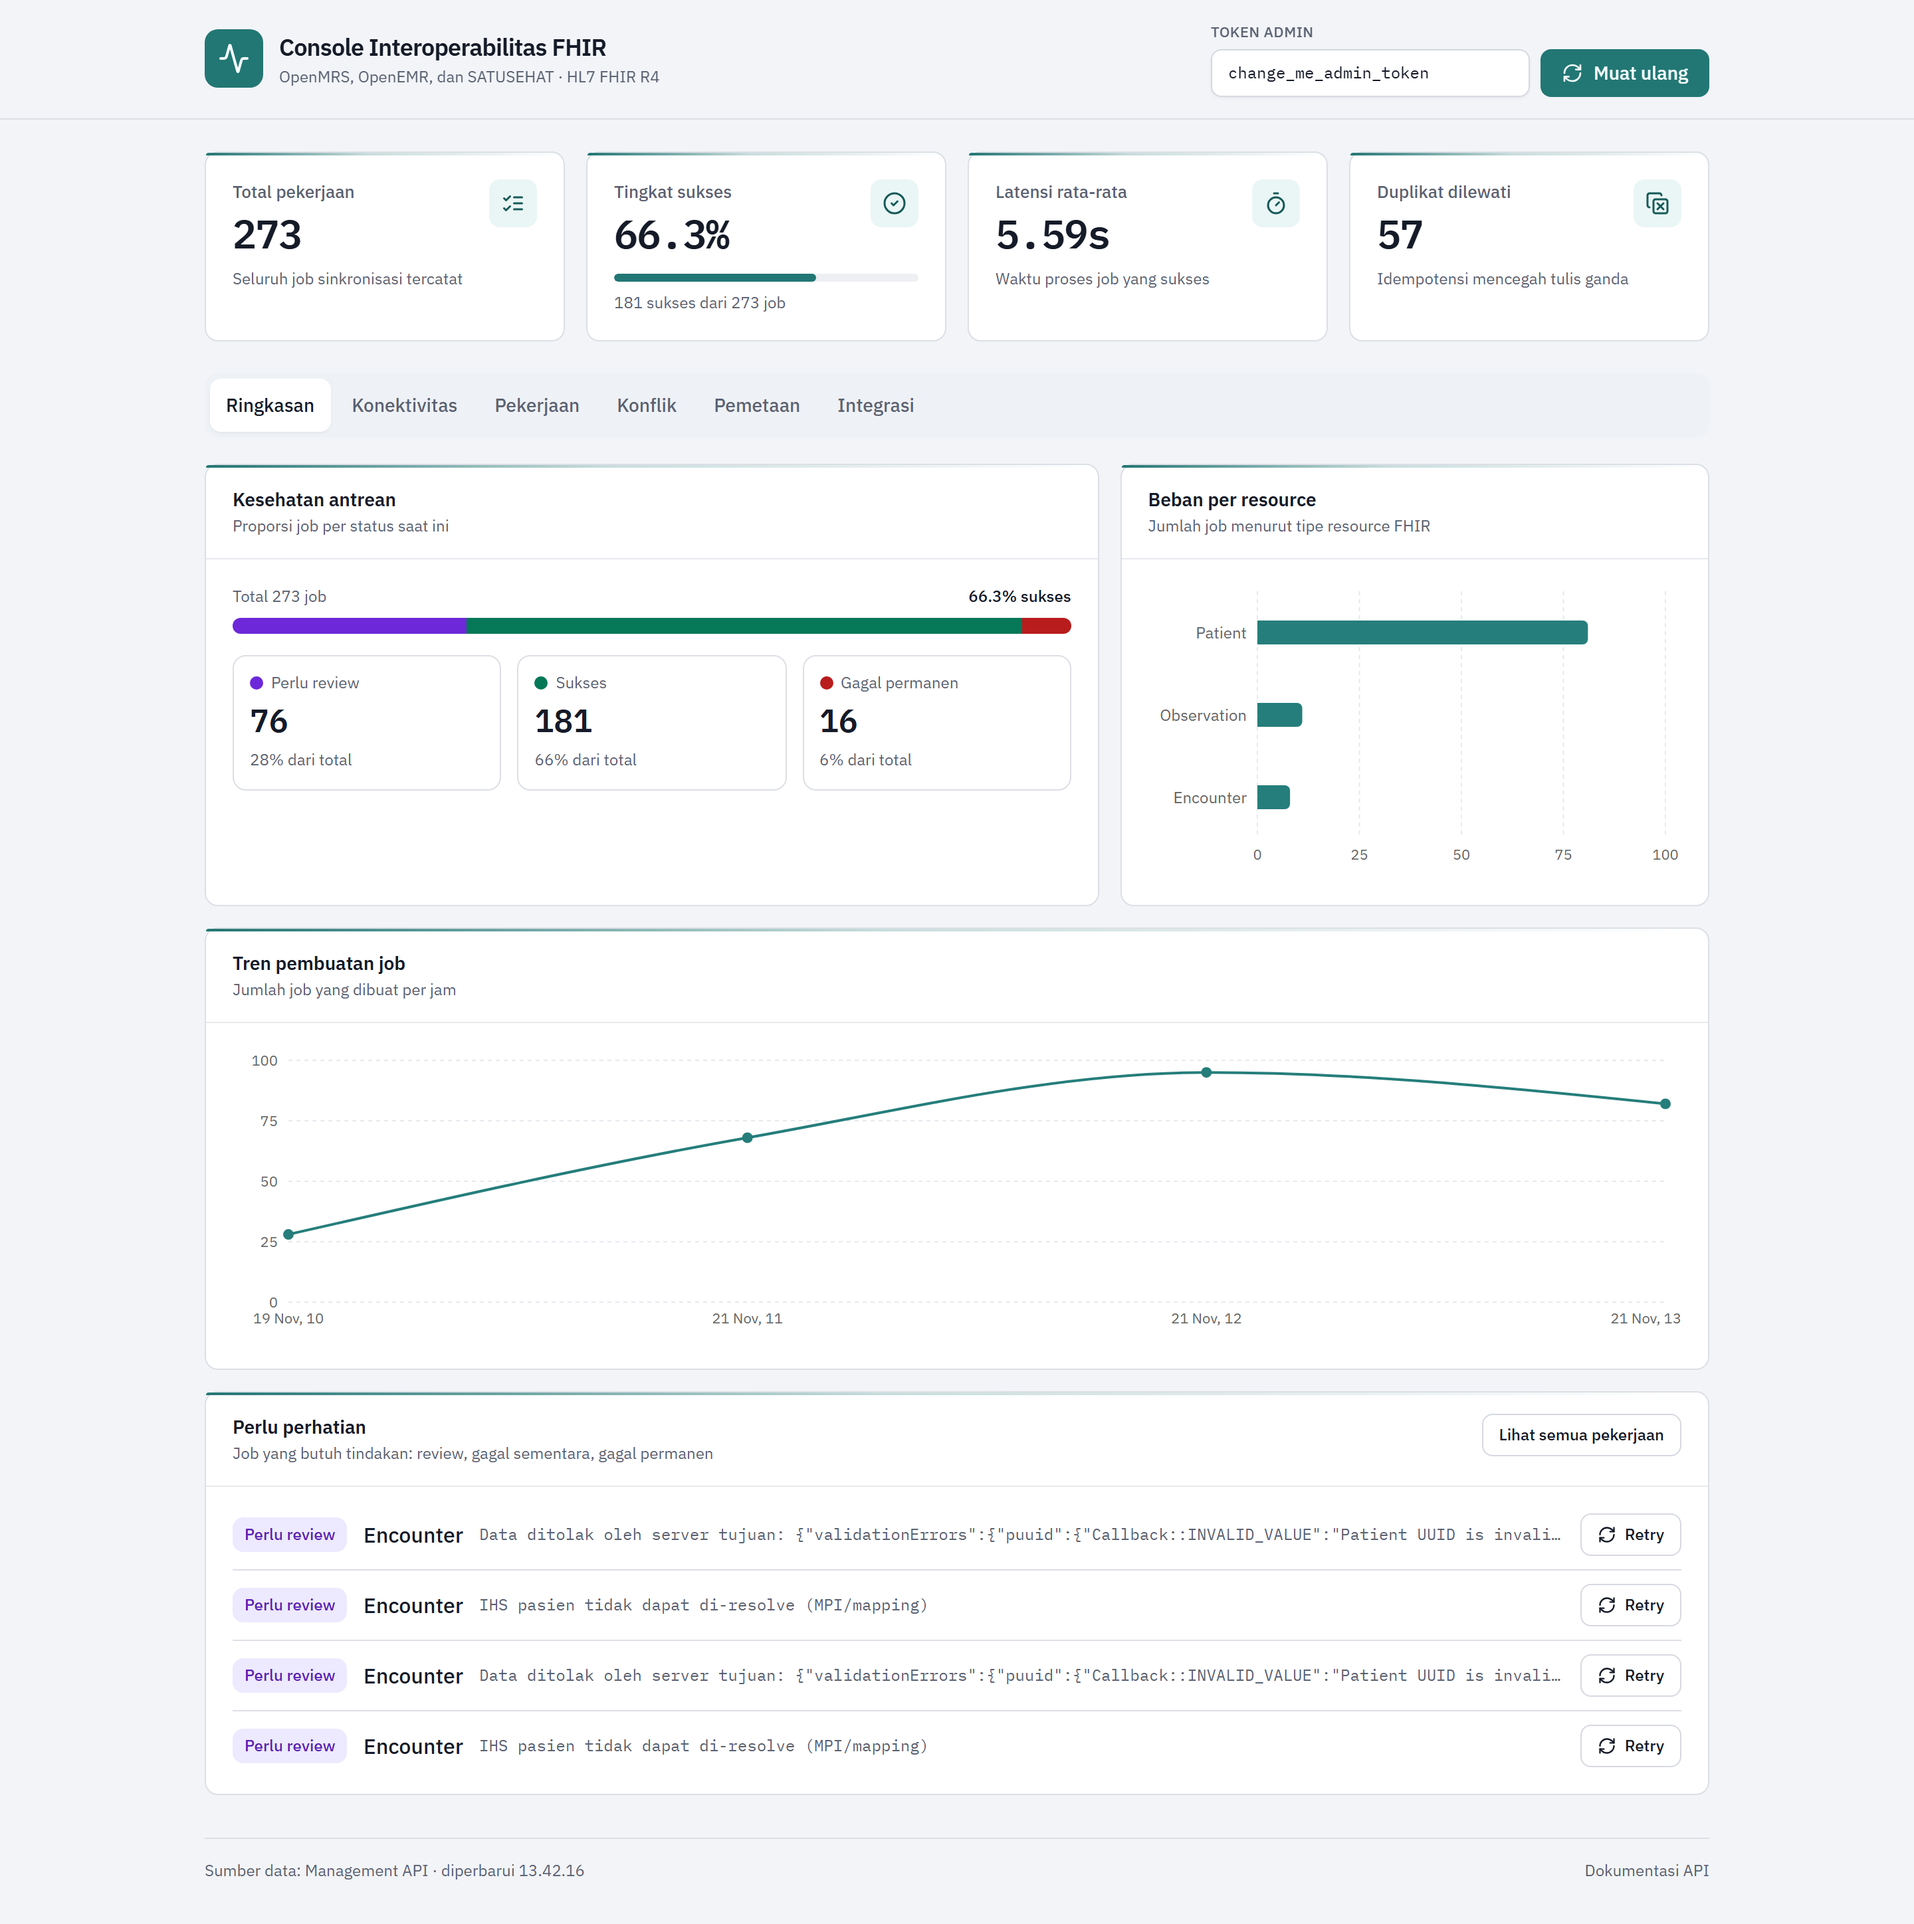
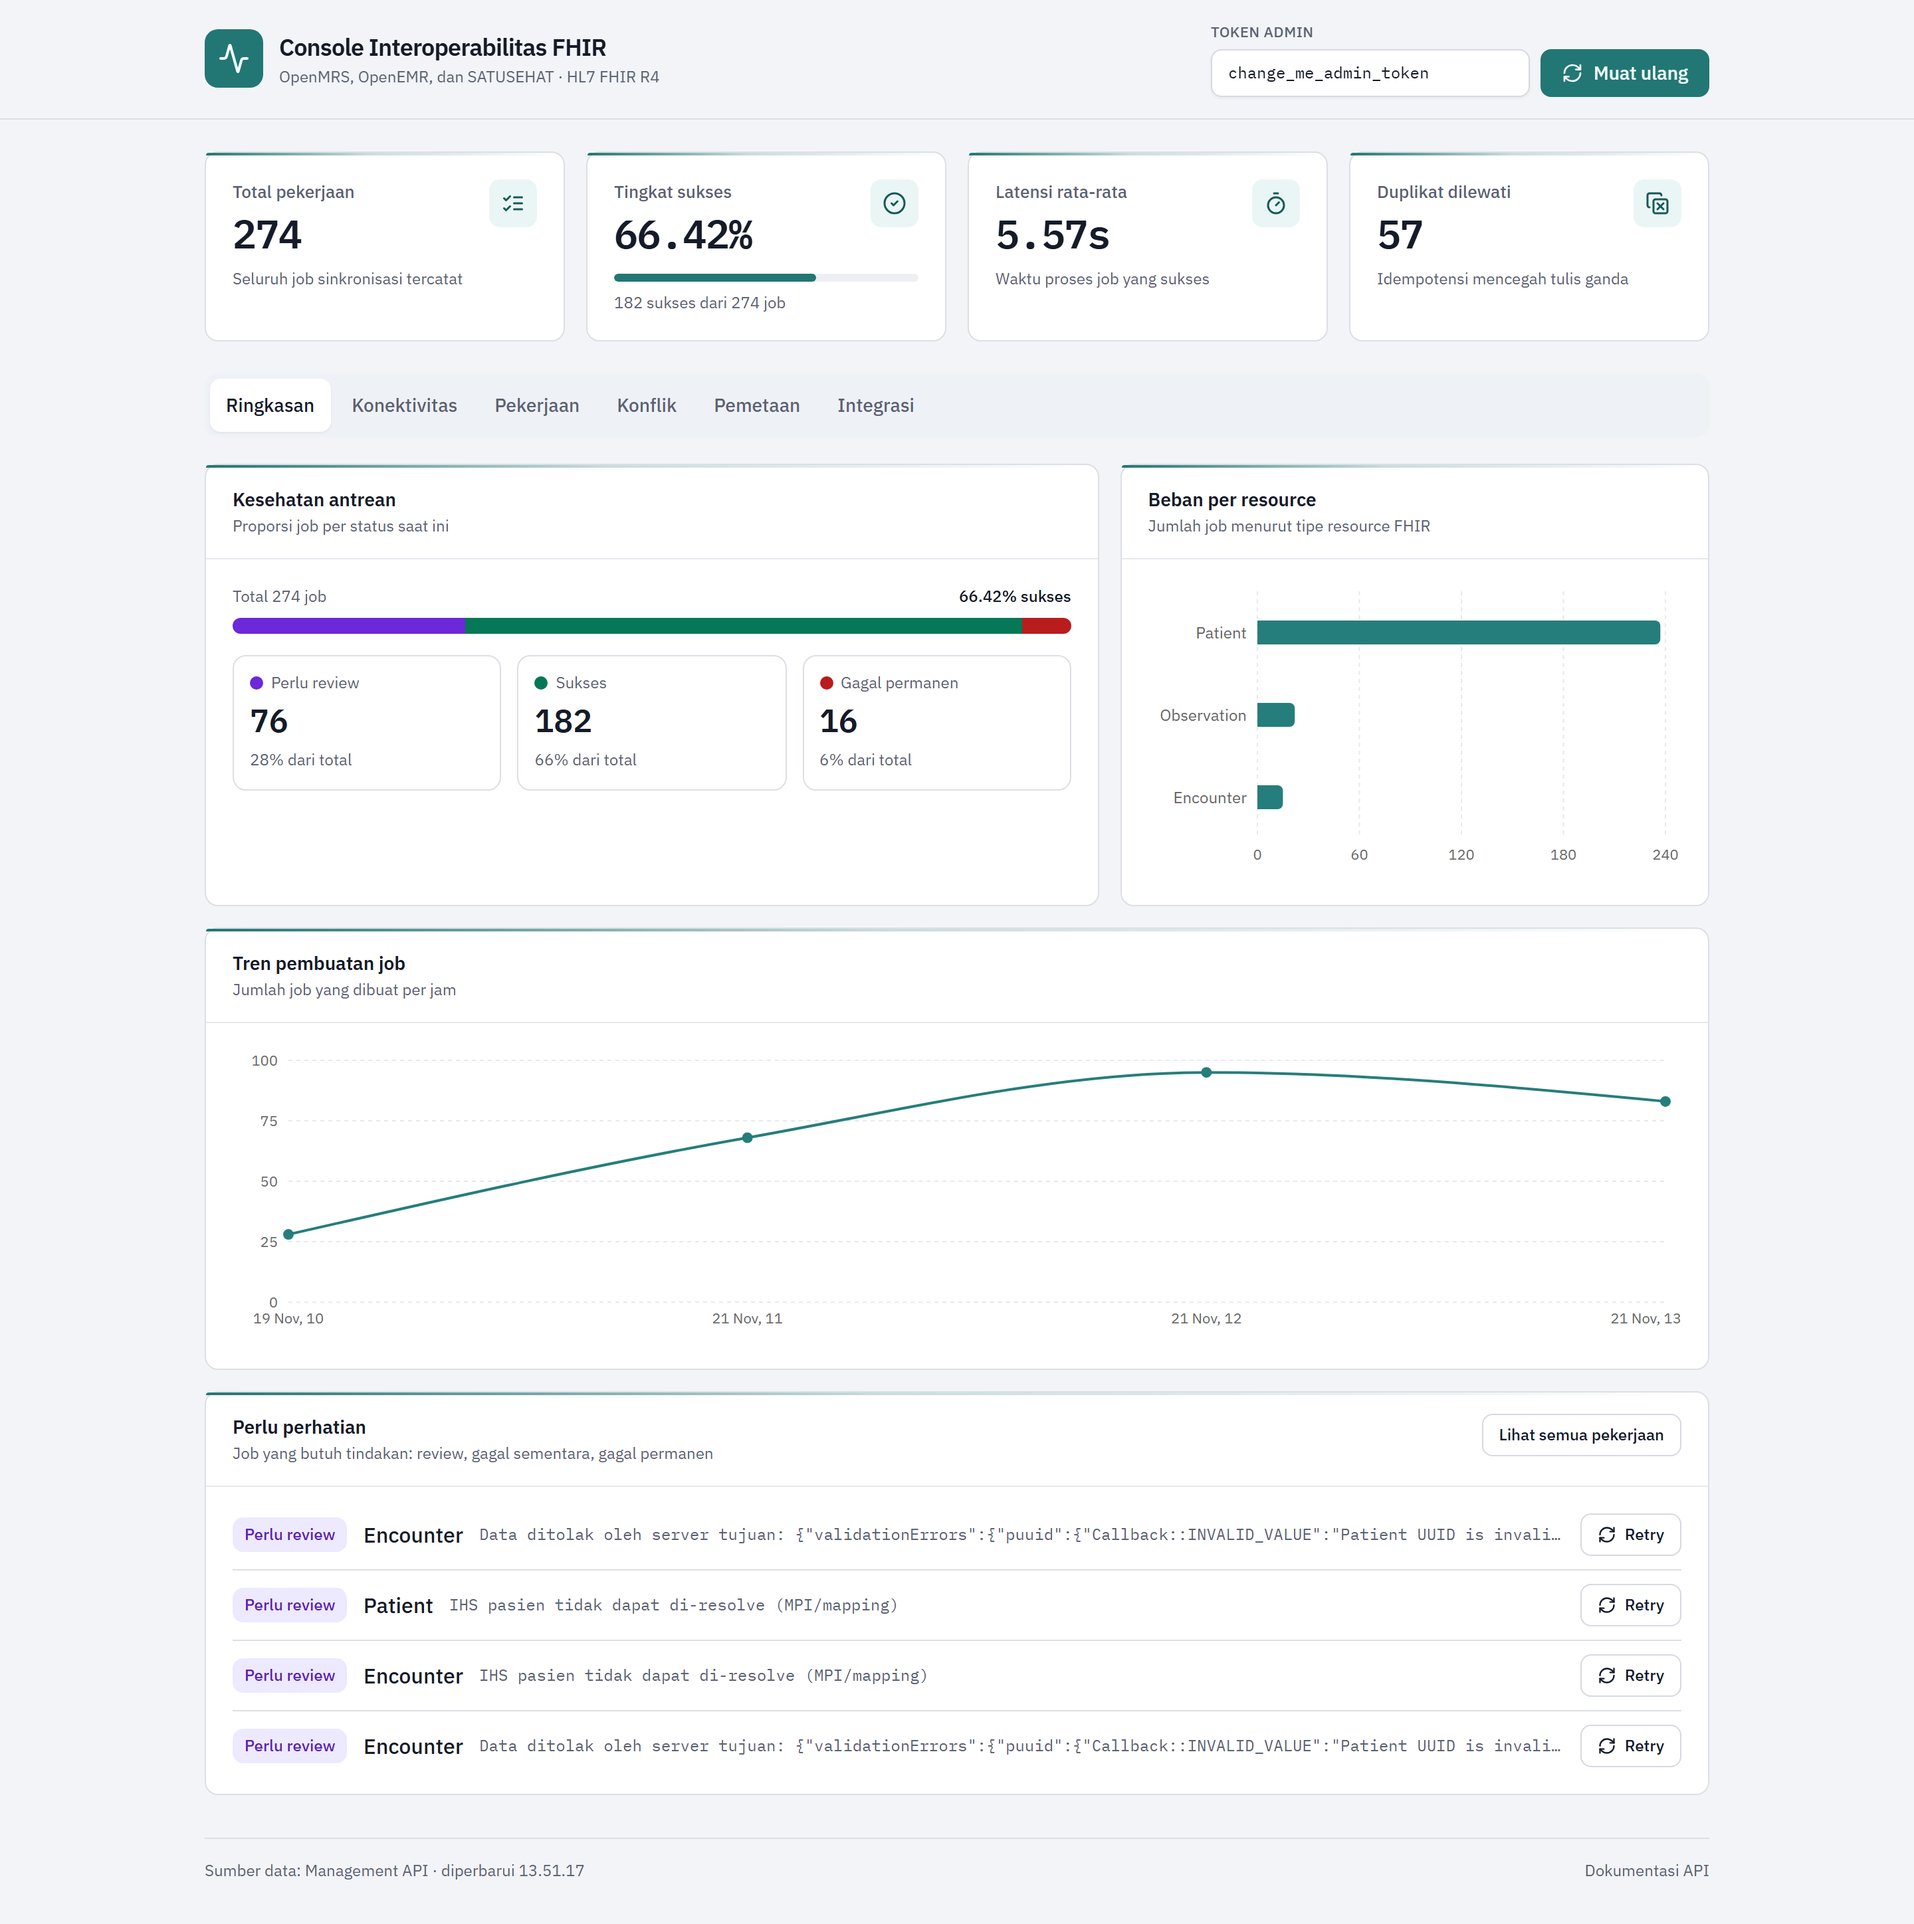
feat(dashboard): pagination pada tab Pekerjaan/Konflik/Pemetaan (#32)

diff --git a/frontend/app/page.tsx b/frontend/app/page.tsx
@@ -5,6 +5,8 @@ import {
   Activity,
   AlertTriangle,
   CheckCircle2,
+  ChevronLeft,
+  ChevronRight,
   CopyX,
   GitCompareArrows,
   Inbox,
@@ -84,6 +86,9 @@ const STATUS_HEX: Record<string, string> = {
 
 const ACTIONABLE = ["needs_review", "failed_temp", "failed_perm"];
 
+// Rows per page for the long lists (jobs, conflicts, mappings).
+const PAGE_SIZE = 10;
+
 function toneOf(status: string): Tone {
   return STATUS_TONE[status] ?? "secondary";
 }
@@ -126,6 +131,9 @@ export default function Home() {
   const [jobFilter, setJobFilter] = useState<string>("all");
   const [mapQuery, setMapQuery] = useState<string>("");
   const [mapType, setMapType] = useState<string>("all");
+  const [jobPage, setJobPage] = useState<number>(1);
+  const [mapPage, setMapPage] = useState<number>(1);
+  const [conflictPage, setConflictPage] = useState<number>(1);
 
   const [checkState, setCheckState] = useState<
     Record<string, { status: "idle" | "loading" | "ok" | "fail"; msg?: string }>
@@ -145,7 +153,7 @@ export default function Home() {
       const [m, s, j, c, mp, tl] = await Promise.all([
         apiGet("/api/v1/metrics", token),
         apiGet("/api/v1/systems", token),
-        apiGet("/api/v1/jobs", token),
+        apiGet("/api/v1/jobs?limit=500", token),
         apiGet("/api/v1/conflicts", token),
         apiGet("/api/v1/mappings", token),
         apiGet("/api/v1/metrics/timeline", token).catch(() => null),
@@ -321,6 +329,30 @@ export default function Home() {
       return typeOk && qOk;
     });
   }, [mappings, mapQuery, mapType]);
+
+  // --- Pagination slices (client-side) ---
+  const jobTotalPages = Math.max(1, Math.ceil(filteredJobs.length / PAGE_SIZE));
+  const pagedJobs = useMemo(
+    () => filteredJobs.slice((jobPage - 1) * PAGE_SIZE, jobPage * PAGE_SIZE),
+    [filteredJobs, jobPage]
+  );
+  const mapTotalPages = Math.max(1, Math.ceil(filteredMappings.length / PAGE_SIZE));
+  const pagedMappings = useMemo(
+    () => filteredMappings.slice((mapPage - 1) * PAGE_SIZE, mapPage * PAGE_SIZE),
+    [filteredMappings, mapPage]
+  );
+  const conflictTotalPages = Math.max(1, Math.ceil(conflicts.length / PAGE_SIZE));
+  const pagedConflicts = useMemo(
+    () => conflicts.slice((conflictPage - 1) * PAGE_SIZE, conflictPage * PAGE_SIZE),
+    [conflicts, conflictPage]
+  );
+
+  // Reset to page 1 whenever a filter/search changes or the data set shrinks.
+  useEffect(() => setJobPage(1), [jobFilter, jobs.length]);
+  useEffect(() => setMapPage(1), [mapQuery, mapType, mappings.length]);
+  useEffect(() => {
+    if (conflictPage > conflictTotalPages) setConflictPage(conflictTotalPages);
+  }, [conflictPage, conflictTotalPages]);
 
   const successCount = metrics?.by_status?.success ?? 0;
   const totalJobs = metrics?.total_jobs ?? 0;
@@ -777,7 +809,7 @@ export default function Home() {
                         </TableCell>
                       </TableRow>
                     ) : (
-                      filteredJobs.map((j) => (
+                      pagedJobs.map((j) => (
                         <TableRow key={j.id}>
                           <TableCell className="whitespace-nowrap font-mono text-xs text-muted-foreground">
                             {fmtTime(j.created_at)}
@@ -820,6 +852,8 @@ export default function Home() {
                   </TableBody>
                 </Table>
               </div>
+              <Pagination page={jobPage} totalPages={jobTotalPages} total={filteredJobs.length}
+                onPage={setJobPage} label="pekerjaan" />
             </Panel>
           </TabsContent>
 
@@ -839,7 +873,7 @@ export default function Home() {
                 />
               ) : (
                 <ul className="space-y-3">
-                  {conflicts.map((c) => (
+                  {pagedConflicts.map((c) => (
                     <li key={c.id} className="rounded-lg border border-border bg-card p-4">
                       <div className="flex flex-wrap items-center justify-between gap-2">
                         <div className="flex items-center gap-2">
@@ -884,6 +918,8 @@ export default function Home() {
                   ))}
                 </ul>
               )}
+              <Pagination page={conflictPage} totalPages={conflictTotalPages} total={conflicts.length}
+                onPage={setConflictPage} label="konflik" />
             </Panel>
           </TabsContent>
 
@@ -945,7 +981,7 @@ export default function Home() {
                         </TableCell>
                       </TableRow>
                     ) : (
-                      filteredMappings.map((m) => (
+                      pagedMappings.map((m) => (
                         <TableRow key={m.id}>
                           <TableCell className="font-mono text-xs">{m.source_identifier}</TableCell>
                           <TableCell className="font-mono text-xs">{m.target_identifier}</TableCell>
@@ -963,6 +999,8 @@ export default function Home() {
                   </TableBody>
                 </Table>
               </div>
+              <Pagination page={mapPage} totalPages={mapTotalPages} total={filteredMappings.length}
+                onPage={setMapPage} label="pemetaan" />
             </Panel>
           </TabsContent>
 
@@ -1176,6 +1214,64 @@ function FilterChip({
     >
       {children}
     </button>
+  );
+}
+
+function Pagination({
+  page,
+  totalPages,
+  total,
+  onPage,
+  label,
+}: {
+  page: number;
+  totalPages: number;
+  total: number;
+  onPage: (p: number) => void;
+  label: string;
+}) {
+  if (total === 0) return null;
+  const start = (page - 1) * PAGE_SIZE + 1;
+  const end = Math.min(page * PAGE_SIZE, total);
+  return (
+    <nav
+      className="mt-4 flex flex-wrap items-center justify-between gap-3 border-t border-border pt-3"
+      aria-label={`Navigasi halaman ${label}`}
+    >
+      <p className="text-xs text-muted-foreground">
+        Menampilkan <span className="font-mono-num font-medium text-foreground">{start}</span>
+        {"–"}
+        <span className="font-mono-num font-medium text-foreground">{end}</span> dari{" "}
+        <span className="font-mono-num font-medium text-foreground">{total}</span> {label}
+      </p>
+      <div className="flex items-center gap-1.5">
+        <Button
+          variant="outline"
+          size="sm"
+          className="min-h-[36px]"
+          onClick={() => onPage(page - 1)}
+          disabled={page <= 1}
+          aria-label={`Halaman ${label} sebelumnya`}
+        >
+          <ChevronLeft className="h-4 w-4" aria-hidden="true" />
+          Sebelumnya
+        </Button>
+        <span className="px-1 text-xs text-muted-foreground" aria-hidden="true">
+          <span className="font-mono-num font-medium text-foreground">{page}</span> / {totalPages}
+        </span>
+        <Button
+          variant="outline"
+          size="sm"
+          className="min-h-[36px]"
+          onClick={() => onPage(page + 1)}
+          disabled={page >= totalPages}
+          aria-label={`Halaman ${label} berikutnya`}
+        >
+          Berikutnya
+          <ChevronRight className="h-4 w-4" aria-hidden="true" />
+        </Button>
+      </div>
+    </nav>
   );
 }
 
